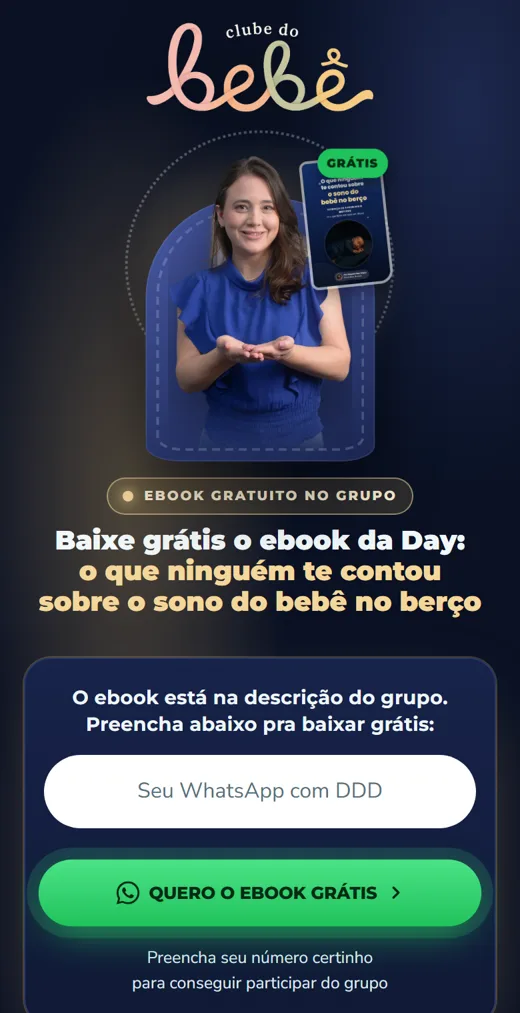
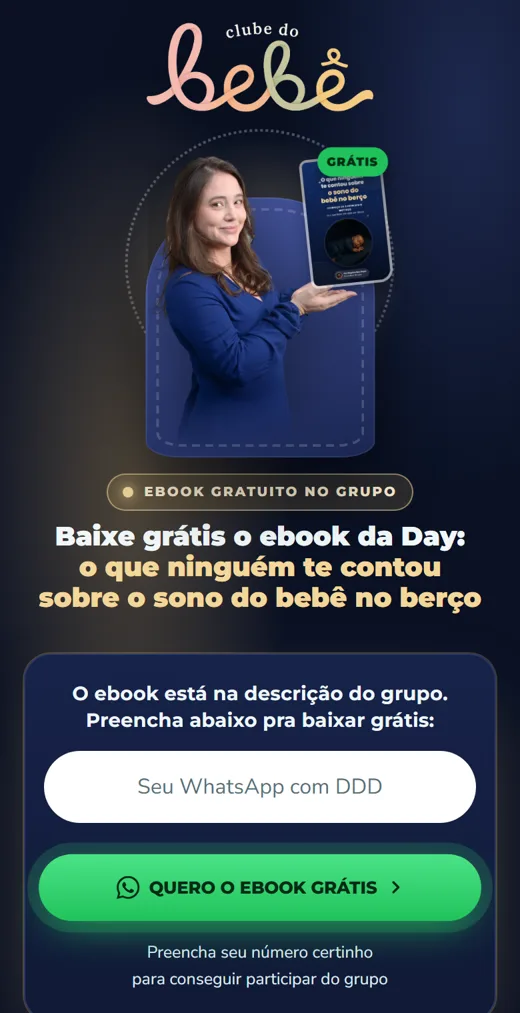
black 2026: Clube sono ebook com a Day apresentando de lado

diff --git a/2026-10-26-black-2026/clube-do-bebe/sono-ebook/index.html b/2026-10-26-black-2026/clube-do-bebe/sono-ebook/index.html
@@ -251,7 +251,7 @@ footer{padding:26px 18px calc(26px + env(safe-area-inset-bottom));text-align:cen
 @media(max-width:860px){.topo-logo img{width:min(170px,46vw)}.hero{padding-top:16px}}
 .portrait img{width:84%}
 .lockup-day .portrait img{width:84%;margin-inline:0}
-.portrait img.day-ebook{width:80%}
+.portrait img.day-ebook{width:92%;margin-left:-6%}
 </style>
 <script src="../../assets/black.js" defer></script>
 </head>
@@ -263,7 +263,7 @@ footer{padding:26px 18px calc(26px + env(safe-area-inset-bottom));text-align:cen
     <div class="lockup">
       <div class="portrait">
         <span class="halo"></span><span class="rings"></span><span class="arch"></span>
-        <img class="day-ebook" src="../../assets/day-sono-maos.webp" alt="Dayane Dos Anjos apresentando o ebook" width="656" height="1100">
+        <img class="day-ebook" src="../../assets/day-sono-apresentando.webp" alt="Dayane Dos Anjos apresentando o ebook" width="766" height="1100">
         <div class="capa-ebook"><img src="../../assets/capa-sono.webp" alt="Capa do ebook O que ninguém te contou sobre o sono do bebê no berço" width="700" height="1120"><span>Grátis</span></div>
       </div>
     </div>
@@ -293,7 +293,7 @@ footer{padding:26px 18px calc(26px + env(safe-area-inset-bottom));text-align:cen
         <svg class="cf fralda" viewBox="0 0 24 24" fill="none" stroke="currentColor" stroke-width="2" stroke-linecap="round" stroke-linejoin="round" aria-hidden="true"><path d="M2.5 5.5h19v4.5c-3.4.3-5.6 3.3-6.2 9h-6.6c-.6-5.7-2.8-8.7-6.2-9z"/><path d="M2.5 8.5h19"/><path d="M5.5 8.5v1.6M18.5 8.5v1.6"/></svg>
         <svg class="cf bebe" viewBox="0 0 24 24" fill="none" stroke="currentColor" stroke-width="2" stroke-linecap="round" stroke-linejoin="round" aria-hidden="true"><circle cx="12" cy="13" r="8"/><path d="M12 5c0-2.2 2.4-2.6 3.2-1.2"/><path d="M9.3 15.4c1.5 1.3 3.9 1.3 5.4 0"/><path d="M9 11.5h.01M15 11.5h.01" stroke-width="2.6"/></svg>
         <svg class="cf cor" viewBox="0 0 24 24" fill="currentColor" aria-hidden="true"><path d="M12 21s-8-5.2-8-11a4.6 4.6 0 0 1 8-3 4.6 4.6 0 0 1 8 3c0 5.8-8 11-8 11z"/></svg>
-        <img src="../../assets/day-sono-queixo2.webp" alt="Dayane Dos Anjos com a mão no queixo" width="674" height="1100" loading="lazy">
+        <img src="../../assets/day-sono-branca.webp" alt="Dayane Dos Anjos com a mão no queixo" width="676" height="1100" loading="lazy">
       </div>
       <div class="logo-placa placa-aula"><span>Aula<br>exclusiva</span><svg class="bri b1" viewBox="0 0 24 24" fill="currentColor" aria-hidden="true"><path d="M12 0c.6 5.8 5.6 10.8 12 12-6.4 1.2-11.4 6.2-12 12-.6-5.8-5.6-10.8-12-12C6.4 10.8 11.4 5.8 12 0z"/></svg><svg class="bri b2" viewBox="0 0 24 24" fill="currentColor" aria-hidden="true"><path d="M12 0c.6 5.8 5.6 10.8 12 12-6.4 1.2-11.4 6.2-12 12-.6-5.8-5.6-10.8-12-12C6.4 10.8 11.4 5.8 12 0z"/></svg><svg class="bri b3" viewBox="0 0 24 24" fill="currentColor" aria-hidden="true"><path d="M12 0c.6 5.8 5.6 10.8 12 12-6.4 1.2-11.4 6.2-12 12-.6-5.8-5.6-10.8-12-12C6.4 10.8 11.4 5.8 12 0z"/></svg></div>
     </div>

diff --git a/2026-10-26-black-2026/clube-do-bebe/sono-aula/index.html b/2026-10-26-black-2026/clube-do-bebe/sono-aula/index.html
@@ -245,7 +245,7 @@ footer{padding:26px 18px calc(26px + env(safe-area-inset-bottom));text-align:cen
 @media(max-width:860px){.topo-logo img{width:min(170px,46vw)}.hero{padding-top:16px}}
 .portrait img{width:84%}
 .lockup-day .portrait img{width:84%;margin-inline:0}
-.portrait img.day-ebook{width:80%}
+.portrait img.day-ebook{width:92%;margin-left:-6%}
 </style>
 <script src="../../assets/black.js" defer></script>
 </head>
